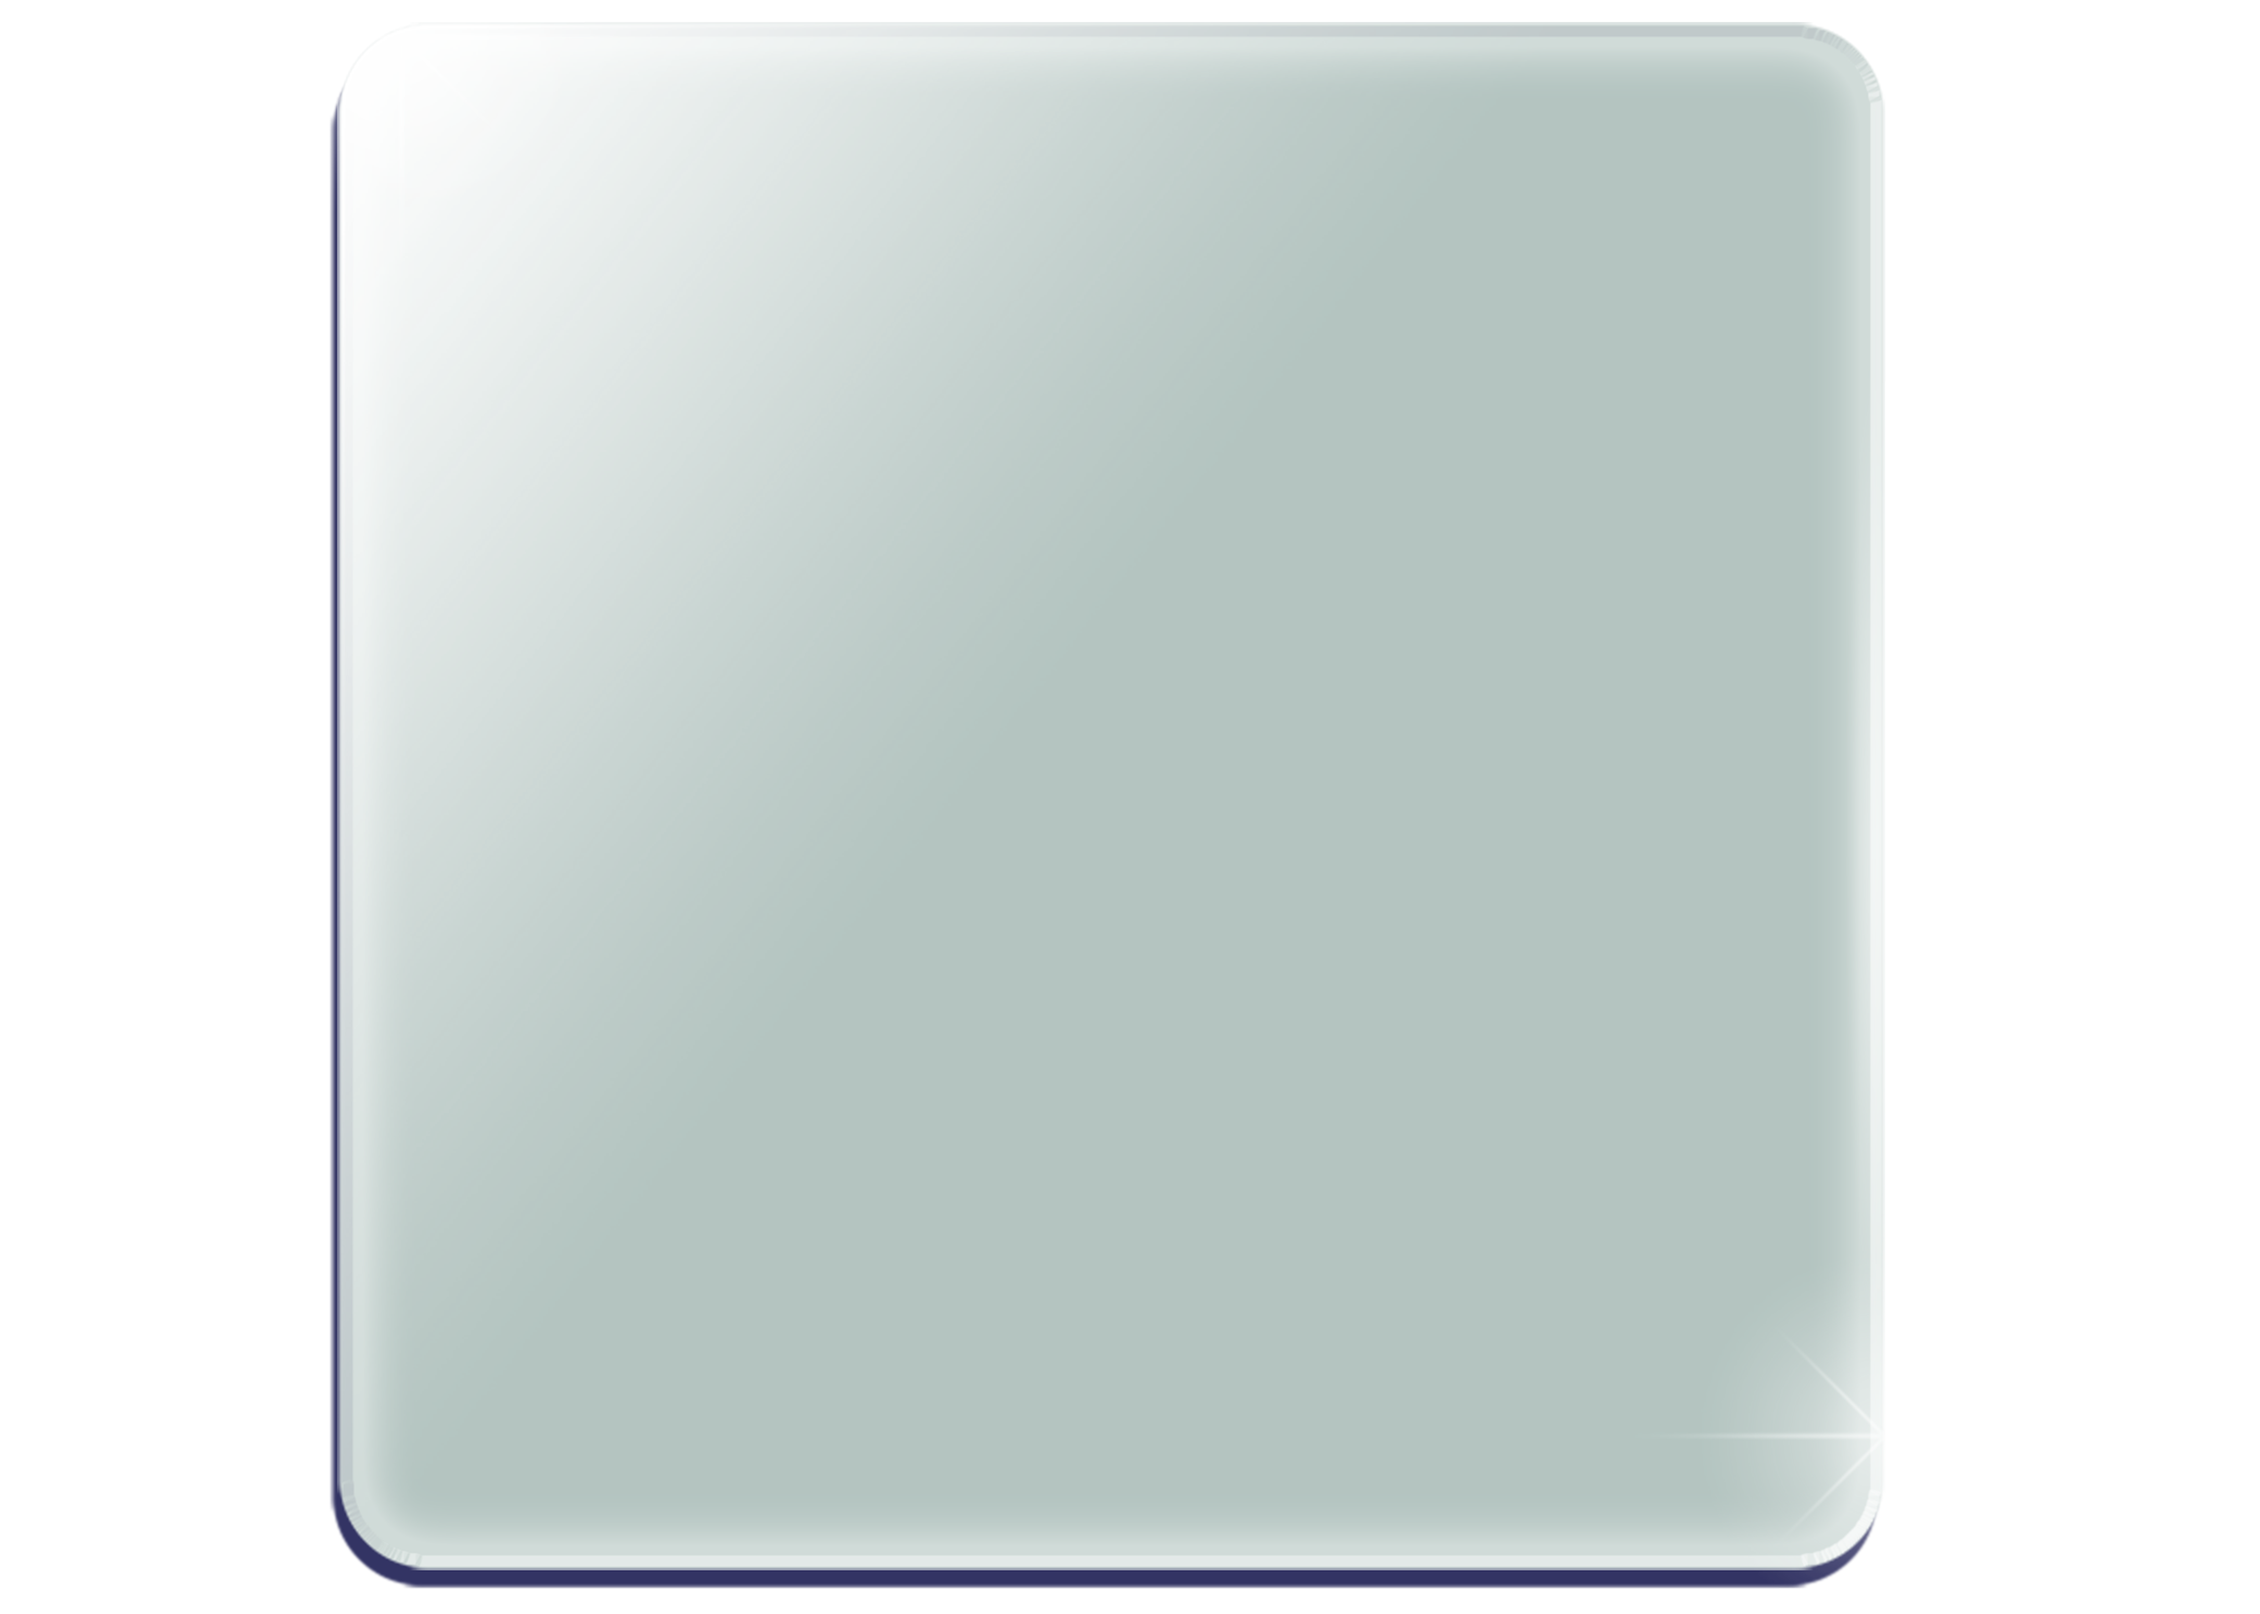
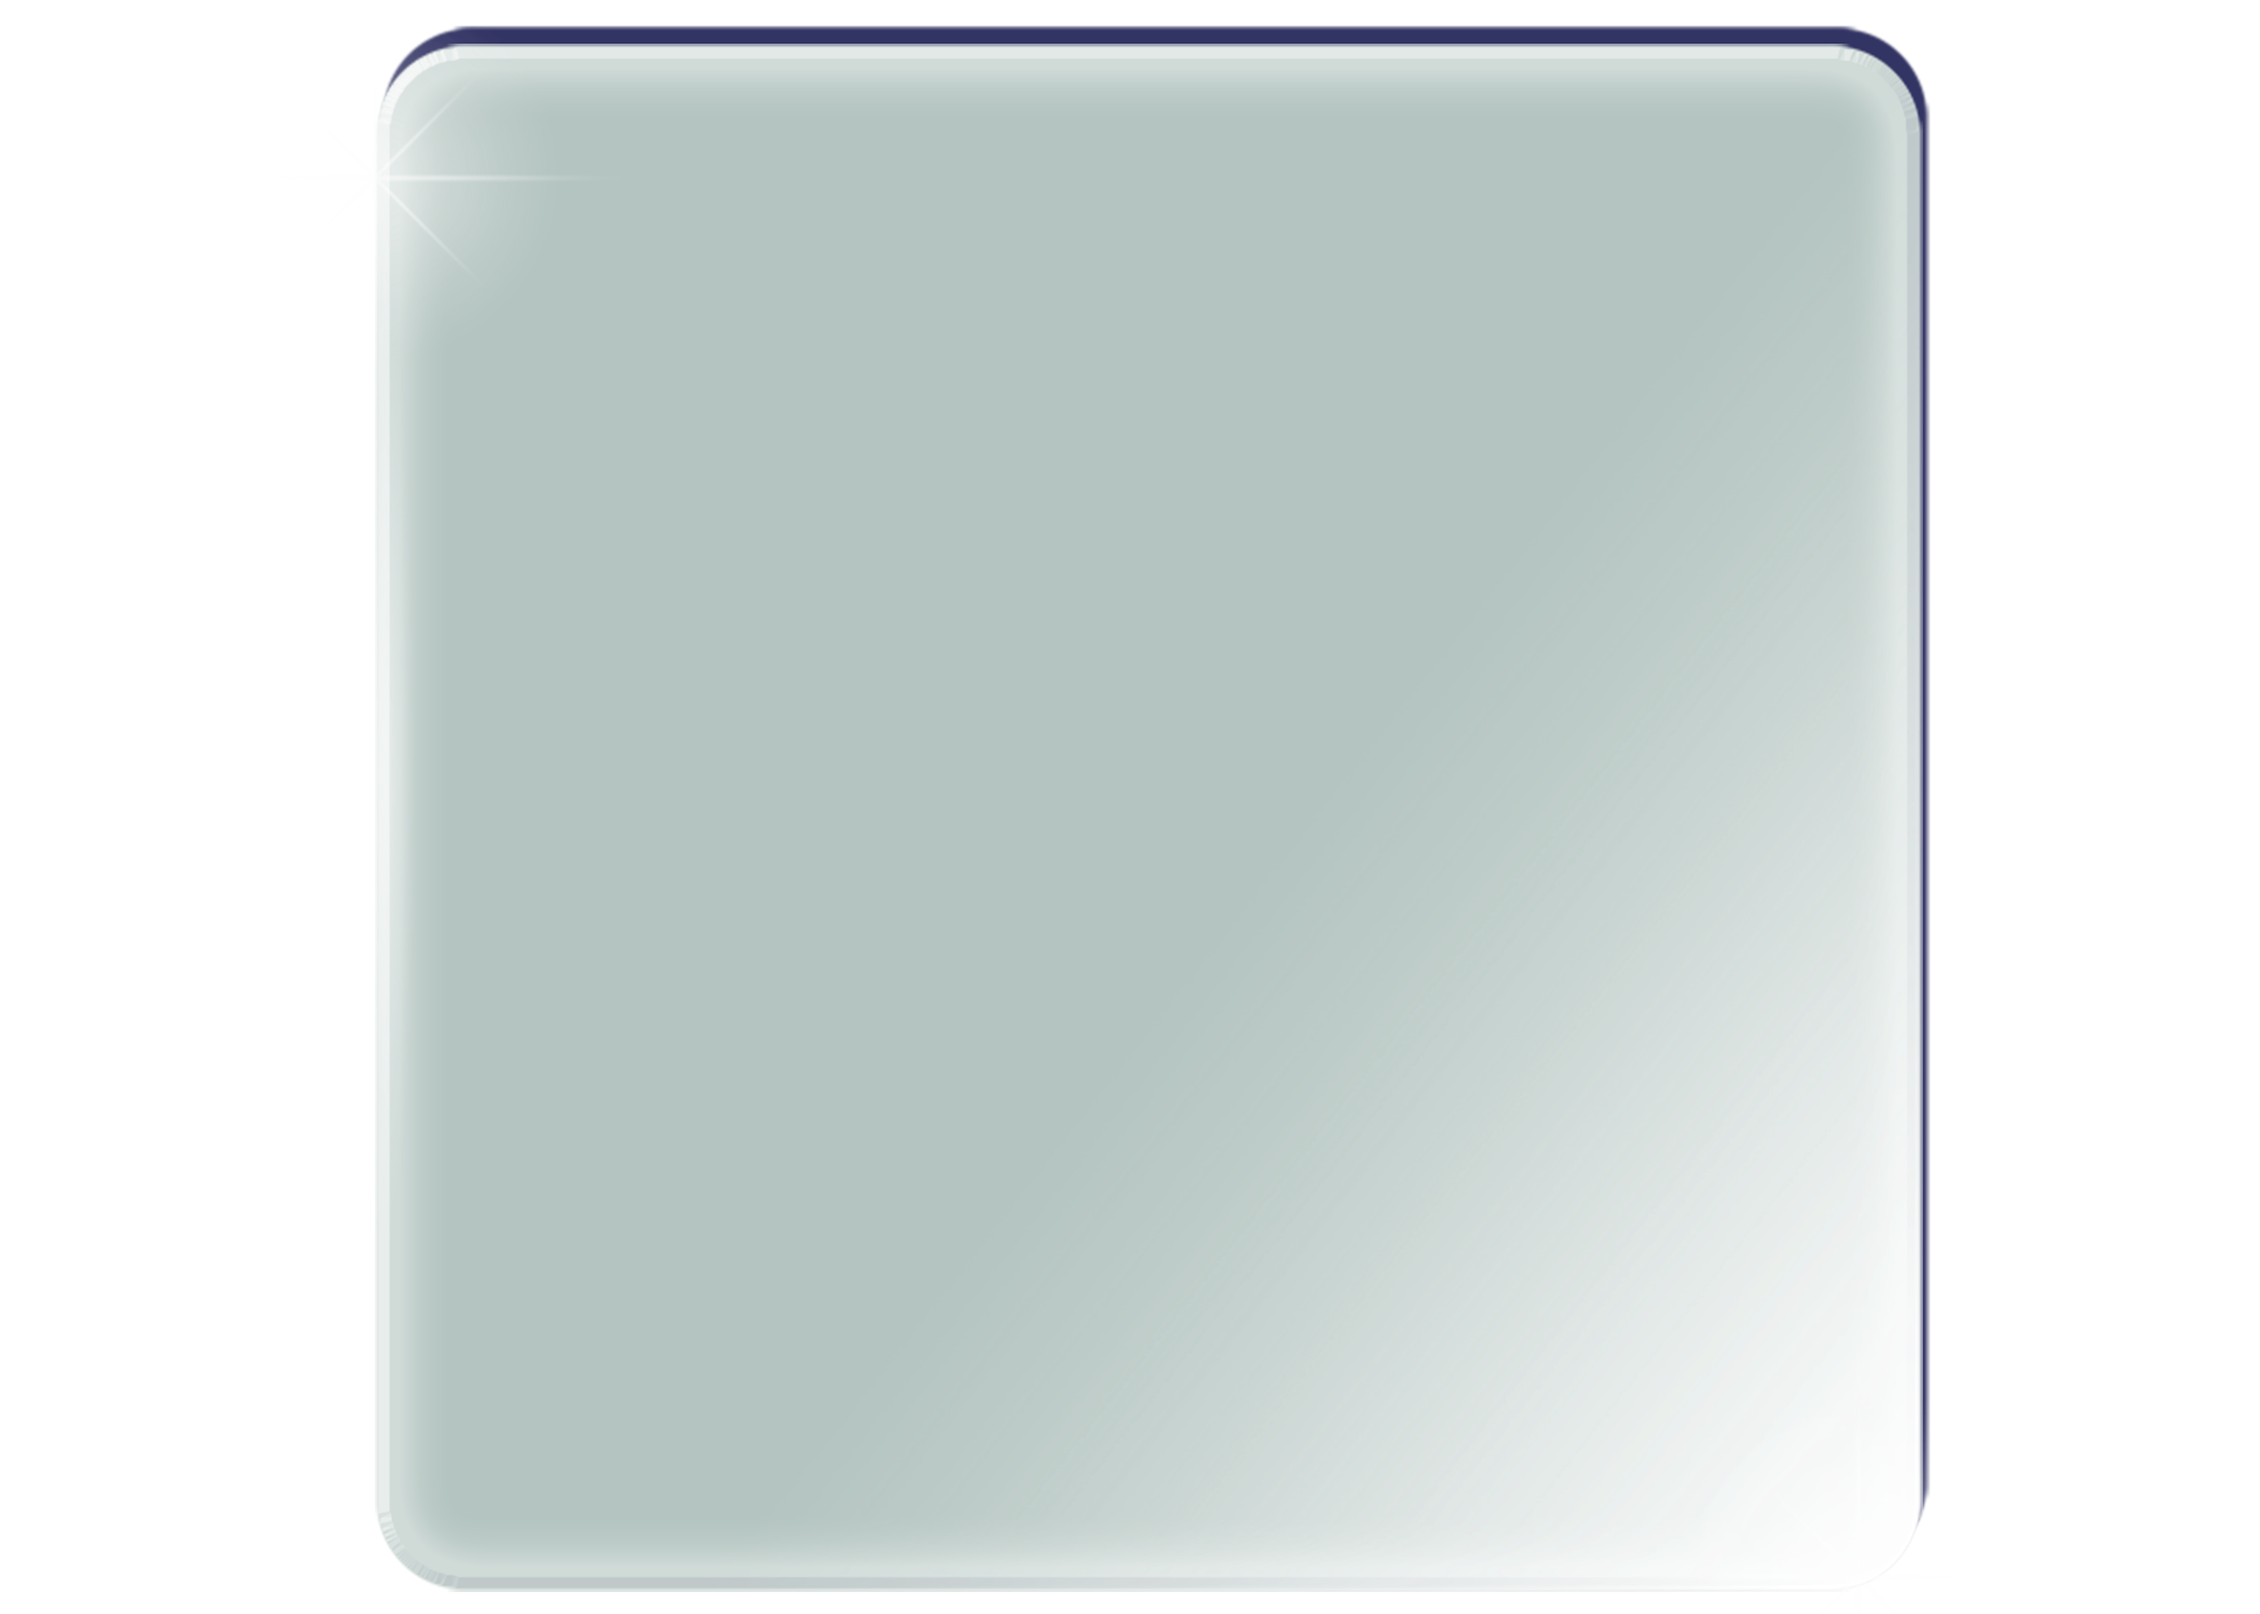
fix(양소린): 배경이미지 수정, 빔 이미지 수정

Changed region(s): [[0.125, 0.0, 0.8748, 0.9935]]

diff --git a/client/public/js/tower.js b/client/public/js/tower.js
@@ -6,22 +6,26 @@ export class Tower {
           this.uniqueId = uniqueId;
           this.x = posX; // 타워 이미지 x 좌표
           this.y = posY; // 타워 이미지 y 좌표
-          this.width = 130; // 타워 이미지 가로 길이 (이미지 파일 길이에 따라 변경 필요하며 세로 길이와 비율을 맞춰주셔야 합니다!)
-          this.height = 130; // 타워 이미지 세로 길이
+          this.width = 65; // 타워 이미지 가로 길이
+          this.height = 120; // 타워 이미지 세로 길이
           this.attackPower = data.attackPower; // 타워 공격력
           this.range = 300; // 타워 사거리
           this.price = data.price; // 타워 구입 비용
           this.cooldown = data.coolDown; // 타워 공격 쿨타임
           this.cool = data.coolDown; // 공격 쿨타임 (계산, 갱신용)
           this.beamDuration = data.beamDuration; // 타워 광선 지속 시간
-          this.beamDu = data.beamDuration; //타워 광선 지속 시간 (계산, 갱신용)
+          this.beamDu = data.beamDuration; // 타워 광선 지속 시간 (계산, 갱신용)
           this.target = null; // 타워 광선의 목표
 
+          this.beamImage = new Image();
+          this.beamImage.src = "../assets/images/beam2.png";
+
           this.towerImage = new Image();
-          this.towerImage.src = data.image;
+          this.towerImage.src = data.image; // 타워 이미지 경로
      }
 
      draw(ctx) {
+          // 타워 이미지 그리기
           ctx.drawImage(
                this.towerImage,
                this.x,
@@ -29,17 +33,26 @@ export class Tower {
                this.width,
                this.height
           );
+
+          // 빔이 발사 중일 때
           if (this.beamDu > 0 && this.target) {
-               ctx.beginPath();
-               ctx.moveTo(this.x + this.width / 2, this.y + this.height / 2);
-               ctx.lineTo(
-                    this.target.x + this.target.width / 2,
-                    this.target.y + this.target.height / 2
-               );
-               ctx.strokeStyle = "skyblue";
-               ctx.lineWidth = 10;
-               ctx.stroke();
-               ctx.closePath();
+               // 빔의 끝점
+               const beamEndX = this.target.x + this.target.width / 2;
+               const beamEndY = this.target.y + this.target.height / 2;
+
+               // 각도 계산
+               const deltaX = beamEndX - (this.x + this.width / 2);
+               const deltaY = beamEndY - (this.y + this.height / 2);
+               const angle = Math.atan2(deltaY, deltaX);
+
+               // 빔 이미지 그리기
+               ctx.save();
+               ctx.translate(this.x + this.width / 2, this.y);
+               ctx.rotate(angle);
+               ctx.drawImage(this.beamImage, -50, -10, 350, 50);
+               ctx.restore();
+
+               // 빔의 지속 시간 감소
                this.beamDu--;
           }
      }

diff --git a/client/public/js/base.js b/client/public/js/base.js
@@ -2,8 +2,8 @@ import { sendMonsterEvent } from "./game.js";
 
 export class Base {
      constructor(x, y, maxHp) {
-          this.x = 1600 / 2; // 기지 이미지 x 좌표
-          this.y = 950 / 2; // 기지 이미지 y 좌표
+          this.x = 1600 / 2 + 15; // 기지 이미지 x 좌표
+          this.y = 950 / 2 + 60; // 기지 이미지 y 좌표
           this.width = 210; // 기지 이미지 가로 길이 (이미지 파일 길이에 따라 변경 필요하며 세로 길이와 비율을 맞춰주셔야 합니다!)
           this.height = 250; // 기지 이미지 세로 길이
           this.hp = maxHp; // 기지의 현재 HP
